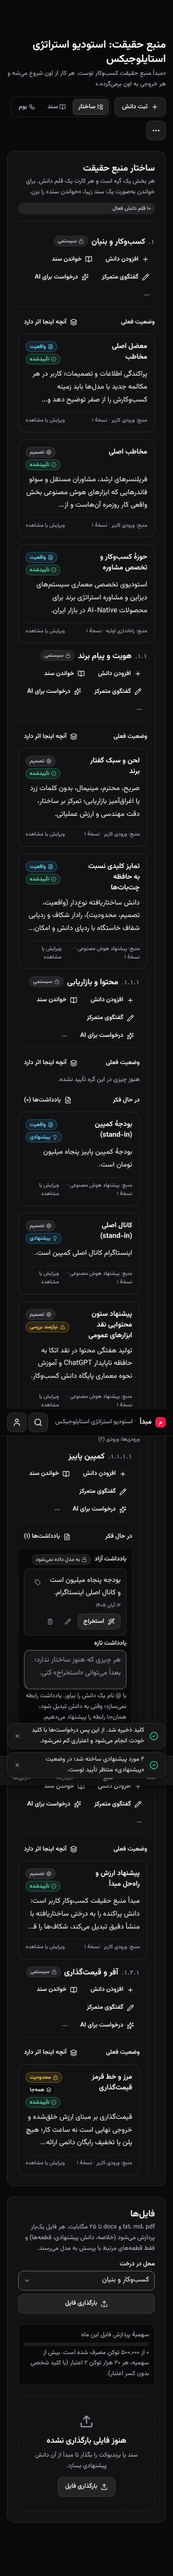
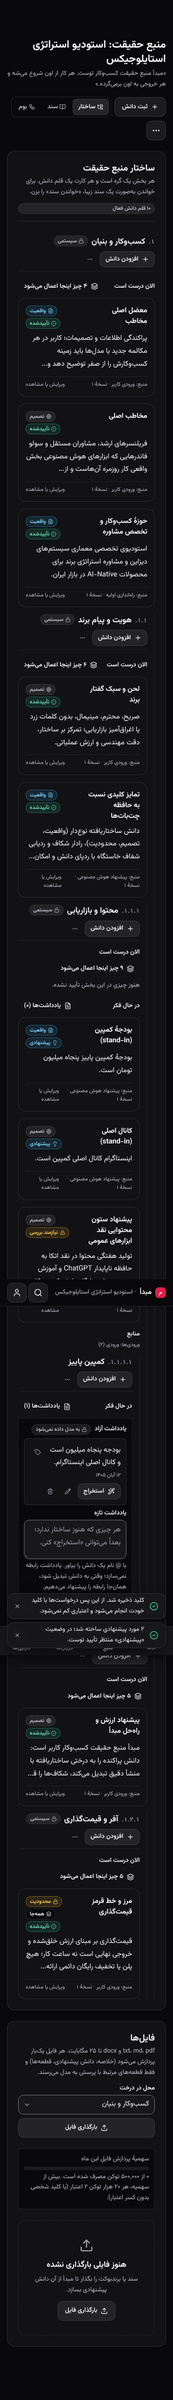
fix(ui): «ساخت با AI» دیدنی روی نمونهٔ دستی؛ سناریوهای casestudy/impact همراستا؛ اسکرینشاتها
Claude-Session: https://claude.ai/code/session_012s3hWJ53mCG12g4v1cSDvK

diff --git a/src/components/ContextReplayCard.tsx b/src/components/ContextReplayCard.tsx
@@ -76,6 +76,7 @@ export const ContextReplayCard: React.FC<ContextReplayCardProps> = ({
           </span>
         </div>
         <div className="flex shrink-0 items-center gap-inline-xs">
+          {sample && !stale && canRebuild && <Button variant="secondary" size="sm" iconStart="Sparkles" loading={isRebuilding} onClick={() => onRebuild(deliverable)}>ساخت با AI</Button>}
           <Button variant="secondary" size="sm" iconStart={copied ? 'Check' : 'Copy'} onClick={handleCopy}>{copied ? 'کپی شد' : 'کپی خروجی'}</Button>
           <Menu
             label="بیشتر دربارهٔ این خروجی"
@@ -83,7 +84,7 @@ export const ContextReplayCard: React.FC<ContextReplayCardProps> = ({
             trigger={<IconButton icon="Ellipsis" label={`بیشتر دربارهٔ ${deliverable.title}`} size="sm" />}
             items={[
               ...(deliverable.critiqueFeedback ? [{ label: 'نقد و چکلیست', icon: 'Eye' as const, onSelect: () => { setShowCritique(true); setTraceOpen(true); } }] : []),
-              ...(canRebuild && !stale ? [{ label: rebuildLabel, icon: 'RefreshCw' as const, disabled: isRebuilding, onSelect: () => onRebuild(deliverable) }] : []),
+              ...(canRebuild && !stale && !sample ? [{ label: rebuildLabel, icon: 'RefreshCw' as const, disabled: isRebuilding, onSelect: () => onRebuild(deliverable) }] : []),
               { label: traceOpen ? 'بستن ردپای دانش' : 'ردپای دانش و معیارها', icon: 'History' as const, onSelect: () => setTraceOpen((v) => !v) },
             ]}
           />
